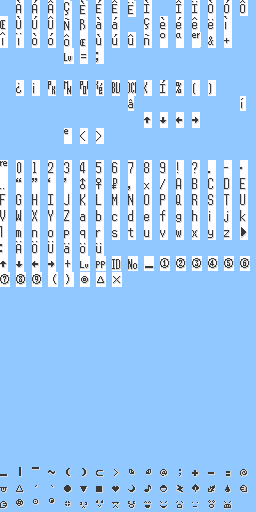
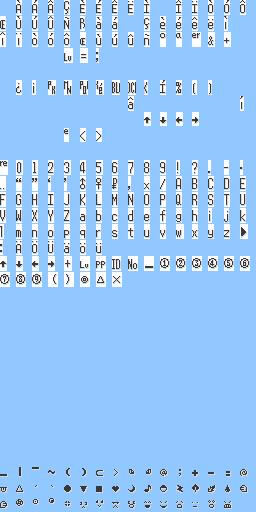
Minor RS font glyph tweaks

diff --git a/gflib/text.c b/gflib/text.c
@@ -1702,7 +1702,7 @@ void DecompressGlyphFont5(u16 glyphId, bool32 isJapanese)
             DecompressGlyphTile(glyphs + 0x18, gCurGlyph.gfxBufferBottom + 8);
         }
 
-        gCurGlyph.height = 15;
+        gCurGlyph.height = 14;
     }
 }
 
